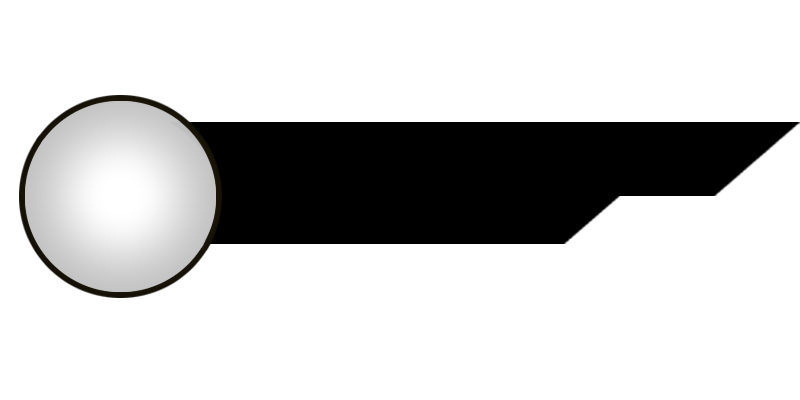
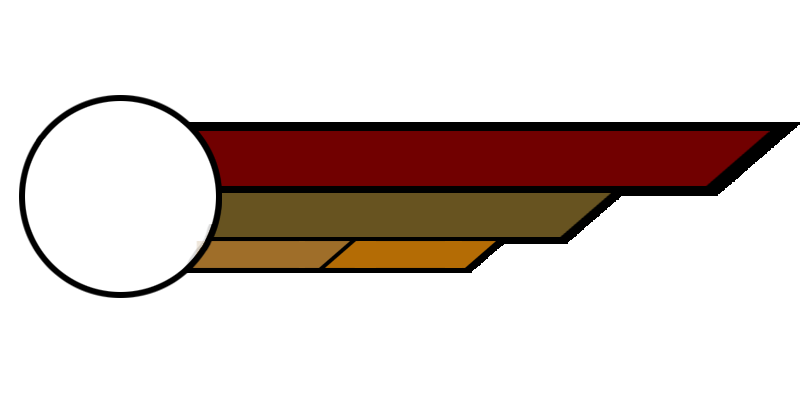
healthbar 1

Changed region(s): [[0.0312, 0.24, 1.0, 0.75]]

diff --git a/core/src/me/spacegame/ui/HealthBar.java b/core/src/me/spacegame/ui/HealthBar.java
@@ -20,6 +20,7 @@ import com.badlogic.gdx.graphics.g3d.utils.MeshBuilder;
 import com.badlogic.gdx.graphics.glutils.FrameBuffer;
 import com.badlogic.gdx.graphics.glutils.ShaderProgram;
 import com.badlogic.gdx.math.Vector3;
+import com.badlogic.gdx.utils.GdxRuntimeException;
 
 import me.spacegame.SpaceGame;
 
@@ -59,7 +60,8 @@ public class HealthBar {
         mainTexture = new Texture(Gdx.files.internal("ui/healthbarmain.png"));
 
         healthbarProgram = new ShaderProgram(healthbarVert, healthbarFrag);
-        System.out.println(healthbarProgram.isCompiled());
+        if (!healthbarProgram.isCompiled()) throw new GdxRuntimeException("Couldn't compile shader: " + healthbarProgram.getLog());
+
 
         healthBatch = new SpriteBatch();
 
@@ -92,8 +94,7 @@ public class HealthBar {
     {
 
         healthbarProgram.begin();
-        healthbarProgram.setUniformf("health", 300);
-        healthbarProgram.setUniformf("origin", 200, 200, 0, 0);
+        healthbarProgram.setUniformf("health_t", 700);
         healthbarProgram.end();
 
         //render to fbo
